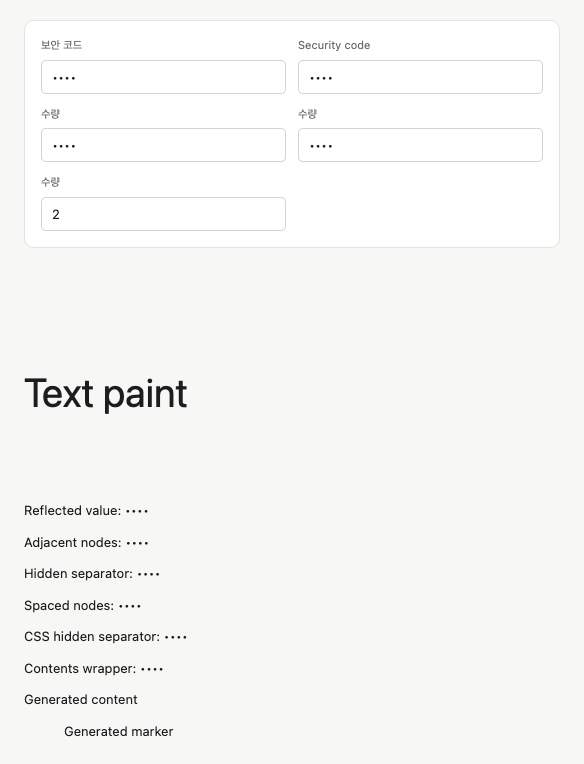
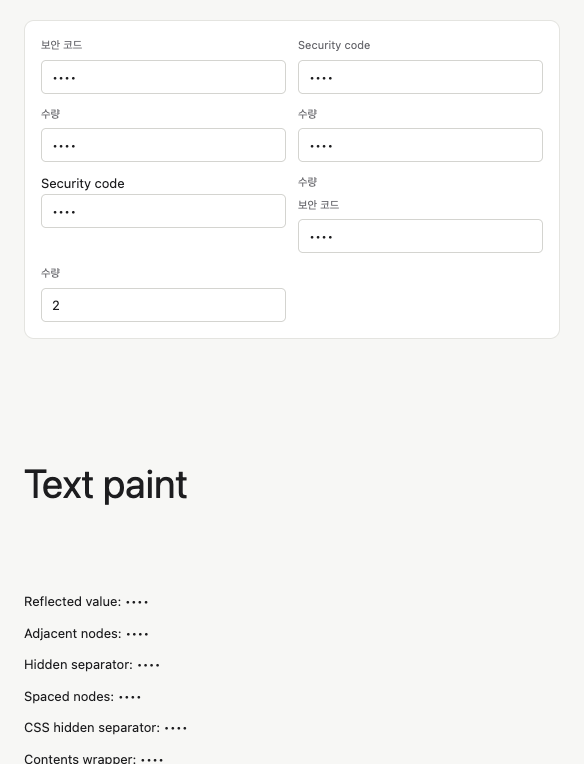
fix(browser): classify all accessible field labels

diff --git a/scripts/ui-contracts/browser-pages/redaction.html b/scripts/ui-contracts/browser-pages/redaction.html
@@ -1,1 +1,1 @@
-<!doctype html><html lang="ko"><head><meta charset="utf-8"><title>Redaction fixture</title><link rel="stylesheet" href="page.css"><style>#generated.private::before{content:attr(code)!important}.generated-list::marker{content:attr(code)!important}.probe-images{display:flex;gap:8px}.probe-images picture{width:160px;flex:none}main>p,main>ul{margin:0}#first-letter::first-letter{font-size:60px;color:transparent;background-image:url('{{pixelImage}}');background-size:contain;background-repeat:no-repeat}#first-line::first-line{background-image:url('{{pixelImage}}');background-size:160px 50px;background-repeat:no-repeat;font-size:40px}</style></head><body><main><form class="form"><div><label for="ko">보안 코드</label><input id="ko" name="field" type="number" value="{{secret}}"></div><div><label for="en">Security code</label><input id="en" name="field" type="number" value="{{secret2}}"></div><div><label for="named">수량</label><input id="named" name="csc" type="number" value="{{secret3}}"></div><div><label for="completed">수량</label><input id="completed" name="quantity" type="number" autocomplete="cc-csc" value="{{secret4}}"></div><div><label for="benign">수량</label><input id="benign" name="quantity" type="number" value="2"></div></form><p id="first-letter">W</p><p id="first-line">Text paint</p><section class="probe-images"><picture><img id="private-image" width="160" height="50" src="{{pixelImage}}" alt=""></picture><svg id="private-svg" width="160" height="50"><image width="160" height="50" href="{{pixelImage}}"/></svg><div id="private-background" style="width:160px;height:50px;background-image:url('{{pixelImage}}')"></div></section><p>Reflected value: {{secret}}</p><p>Adjacent nodes: <span>{{first}}</span><span>{{second}}</span><span>{{third}}</span></p><p>Hidden separator: <span>{{first}}</span><span hidden>hidden</span><span>{{second}}</span><span>{{third}}</span></p><p>Spaced nodes: <span>{{first}} </span><span> {{second}} </span><span> {{third}}</span></p><p>CSS hidden separator: <span>{{first}}</span><span style="visibility:hidden">hidden</span><span>{{second}}</span><span>{{third}}</span></p><p>Contents wrapper: <span style="display:contents">{{first}}<span hidden>hidden</span>{{second}}{{third}}</span></p><p id="generated" class="private" code="{{secret}}">Generated content</p><ul><li class="generated-list" code="{{secret2}}">Generated marker</li></ul></main><script>globalThis.massionPageScriptRan=true;</script></body></html>
+<!doctype html><html lang="ko"><head><meta charset="utf-8"><title>Redaction fixture</title><link rel="stylesheet" href="page.css"><style>#generated.private::before{content:attr(code)!important}.generated-list::marker{content:attr(code)!important}.probe-images{display:flex;gap:8px}.probe-images picture{width:160px;flex:none}main>p,main>ul{margin:0}#first-letter::first-letter{font-size:60px;color:transparent;background-image:url('{{pixelImage}}');background-size:contain;background-repeat:no-repeat}#first-line::first-line{background-image:url('{{pixelImage}}');background-size:160px 50px;background-repeat:no-repeat;font-size:40px}</style></head><body><main><form class="form"><div><label for="ko">보안 코드</label><input id="ko" name="field" type="number" value="{{secret}}"></div><div><label for="en">Security code</label><input id="en" name="field" type="number" value="{{secret2}}"></div><div><label for="named">수량</label><input id="named" name="csc" type="number" value="{{secret3}}"></div><div><label for="completed">수량</label><input id="completed" name="quantity" type="number" autocomplete="cc-csc" value="{{secret4}}"></div><div><span id="aria-security">Security code</span><input aria-labelledby="aria-security" name="quantity" type="number" value="{{secret5}}"></div><div><label for="multi">수량</label><label for="multi">보안 코드</label><input id="multi" name="quantity" type="number" value="{{secret6}}"></div><div><label for="benign">수량</label><input id="benign" name="quantity" type="number" value="2"></div></form><p id="first-letter">W</p><p id="first-line">Text paint</p><section class="probe-images"><picture><img id="private-image" width="160" height="50" src="{{pixelImage}}" alt=""></picture><svg id="private-svg" width="160" height="50"><image width="160" height="50" href="{{pixelImage}}"/></svg><div id="private-background" style="width:160px;height:50px;background-image:url('{{pixelImage}}')"></div></section><p>Reflected value: {{secret}}</p><p>Adjacent nodes: <span>{{first}}</span><span>{{second}}</span><span>{{third}}</span></p><p>Hidden separator: <span>{{first}}</span><span hidden>hidden</span><span>{{second}}</span><span>{{third}}</span></p><p>Spaced nodes: <span>{{first}} </span><span> {{second}} </span><span> {{third}}</span></p><p>CSS hidden separator: <span>{{first}}</span><span style="visibility:hidden">hidden</span><span>{{second}}</span><span>{{third}}</span></p><p>Contents wrapper: <span style="display:contents">{{first}}<span hidden>hidden</span>{{second}}{{third}}</span></p><p id="generated" class="private" code="{{secret}}">Generated content</p><ul><li class="generated-list" code="{{secret2}}">Generated marker</li></ul></main><script>globalThis.massionPageScriptRan=true;</script></body></html>

diff --git a/src/headless-browser.ts b/src/headless-browser.ts
@@ -11,7 +11,7 @@ const exec=promisify(execFile);
 function preparePage(){
  window.stop();const nodes=[...document.querySelectorAll('*')];if(nodes.length>20000)throw Error('Browser DOM bound exceeded');
  const controls=[...document.querySelectorAll<HTMLInputElement|HTMLSelectElement|HTMLTextAreaElement>('input,select,textarea')];if(controls.length>256)throw Error('Browser form bound exceeded');
- const original=controls.map(e=>({label:(e.labels?.[0]?.textContent||e.getAttribute('aria-label')||e.name||'').trim(),type:e.type,name:e.name,value:String(e.value),autocomplete:e.getAttribute('autocomplete')||''}));
+ const original=controls.map(e=>({label:[...[...(e.labels??[])].map(label=>label.textContent),e.getAttribute('aria-label'),...(e.getAttribute('aria-labelledby')??'').split(/\s+/).filter(Boolean).map(id=>document.getElementById(id)?.textContent),e.getAttribute('title'),e.getAttribute('placeholder')].filter(Boolean).join(' ').trim()||e.name||'',type:e.type,name:e.name,value:String(e.value),autocomplete:e.getAttribute('autocomplete')||''}));
  if(original.some(f=>[f.label,f.name,f.type,f.value,f.autocomplete].some(v=>v.length>4000)))throw Error('Browser field bound exceeded');
  const url=new URL(location.href),secrets=[url.username,url.password,url.hash.slice(1),...url.searchParams.values(),...original.filter(maskBrowserField).map(f=>f.value)].filter(Boolean).sort((a,b)=>b.length-a.length),clean=(value:string)=>browserText(value,secrets);
  for(const e of nodes){

diff --git a/docs/architecture/browser-runtime.md b/docs/architecture/browser-runtime.md
@@ -4,7 +4,7 @@ A Work retains bounded, sanitized browser observations: a session identity, firs
 
 The browser service reads through an injected adapter, then records a host-only command through the drain-aware store and the existing Application CAS/idempotency boundary. Reads are pinned to the original feed, Work input and revision. Overlapping identical requests share one read; a newer request supersedes a late response. Unknown commits are reconciled by operation identity and are never retried as effects. A stopped Work, expired run or host drain refuses late writes. Restore validates the additive observation and journal replay.
 
-Only bounded metadata and sanitized PNGs are retained, never HTML, cookies, storage, unmasked screenshots or executable markup. Every input value is masked by default; explicit benign field meanings alone may remain visible. Password, hidden, payment, security/code and authentication identifiers in labels, names or autocomplete always require masking. Their values are also removed from reflected page text before capture. Addresses omit credentials, queries and fragments. The real headless adapter is opt-in local configuration and uses a fresh isolated browser session. Tests use injected read shapes and no external network or payments.
+Only bounded metadata and sanitized PNGs are retained, never HTML, cookies, storage, unmasked screenshots or executable markup. Every input value is masked by default; explicit benign field meanings alone may remain visible. Password, hidden, payment, security/code and authentication identifiers in labels, names or autocomplete always require masking. Classification includes all associated labels, aria-label and aria-labelledby references, title and placeholder. Their values are also removed from reflected page text before capture. Addresses omit credentials, queries and fragments. The real headless adapter is opt-in local configuration and uses a fresh isolated browser session. Tests use injected read shapes and no external network or payments.
 
 The browser pane renders the retained PNG, including the B15 form and B4 checkout, below one page tab strip and a domain-only pill. Sanitized text is screen-reader-only image alternative content. Existing copy.ko.json supplies interface labels. B7 activity and the conversation fold count committed reads. Client generation/feed/selection guards discard late results and remove stale pages. A page never supplies a second submit/payment button.
 

diff --git a/docs/acceptance/browser-runtime/README.md b/docs/acceptance/browser-runtime/README.md
@@ -81,3 +81,7 @@ PR #135's production first-resize fix is merged. Related tests: 91 passed plus t
 Merged current main through PR #131 while preserving both browser and schedules/results/GitHub producers. The merge-related tests passed 128/128. The text-pseudo regression failed on unequal private-value PNGs before the fix and passed afterward: the early important layer now neutralizes and verifies image paint and fonts for first-letter, first-line, placeholder, selection and backdrop as well as generated content. Related tests passed 87/87; typecheck and all 12 browser interaction states passed. The final six screen/theme captures have no new, stale or infrastructure diagnostics: [gate](final-pseudo-gate.json).
 
 Security review subsequently identified CSS primitive drawings, which remain unresolved. A separate local reproduction masks all four private fields and removes their reflected text, yet differently colored DIV/SPAN segments still produce different PNGs: [reproduction result](css-primitive-proof.json). Those ordinary colors, borders and geometry are intentionally retained by the current page renderer, so image-source and text-pseudo neutralization does not establish arbitrary-page pixel confidentiality. This finding remains a merge blocker; the optional real-page adapter is not claimed safe for adversarial documents. Addressing it needs a constrained paint policy or capture refusal that also preserves the required page-image contract. The task's review-loop limit has been reached; no exception or test assertion was relaxed to hide this issue.
+
+## Accessible-label correction
+
+The final thread audit found another earlier security comment: only the first associated label was used. Capture now combines every associated label, `aria-label`, all `aria-labelledby` references, title and placeholder before classification; name/autocomplete remain independent sensitive markers. Dedicated, distinct private values in an aria-labelledby-only field and a second-label field were visibly returned before the fix. Afterward all six private controls are masked and both PNG variants are identical. The focused tests passed 32/32 and typecheck passed; the four reference PNGs and manifest are unchanged. The CSS primitive drawing blocker above remains open.
